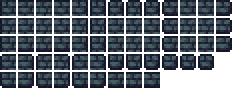
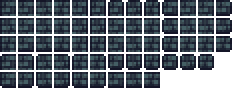
crystal depth tiles/items resprite + code enchancements; add new items tiles/items; hielitium ore tile resprite;

diff --git a/Content/Tiles/Furniture/DeepWoodFurniture/HewnDeepWoodPlatform.cs b/Content/Tiles/Furniture/DeepWoodFurniture/HewnDeepWoodPlatform.cs
@@ -1,0 +1,43 @@
+using Microsoft.Xna.Framework;
+using Terraria;
+using Terraria.ID;
+using Terraria.ModLoader;
+using Terraria.ObjectData;
+using Waybound.Content.Dusts.DeepDusts;
+
+namespace Waybound.Content.Tiles.Furniture.DeepWoodFurniture
+{
+	public class HewnDeepWoodPlatform : ModTile
+	{
+		public override void SetStaticDefaults()
+		{
+			Main.tileLighted[Type] = true;
+			Main.tileFrameImportant[Type] = true;
+			Main.tileSolidTop[Type] = true;
+			Main.tileSolid[Type] = true;
+			Main.tileNoAttach[Type] = true;
+			Main.tileTable[Type] = true;
+			Main.tileLavaDeath[Type] = true;
+			TileID.Sets.Platforms[Type] = true;
+			TileID.Sets.DisableSmartCursor[Type] = true;
+
+			AddToArray(ref TileID.Sets.RoomNeeds.CountsAsDoor);
+			AddMapEntry(new Color(96, 74, 74));
+
+			DustType = ModContent.DustType<DeepTreeDust>();
+			AdjTiles = new int[] { TileID.Platforms };
+
+			TileObjectData.newTile.CoordinateHeights = new[] { 16 };
+			TileObjectData.newTile.CoordinateWidth = 16;
+			TileObjectData.newTile.CoordinatePadding = 2;
+			TileObjectData.newTile.StyleHorizontal = true;
+			TileObjectData.newTile.StyleMultiplier = 27;
+			TileObjectData.newTile.StyleWrapLimit = 27;
+			TileObjectData.newTile.UsesCustomCanPlace = false;
+			TileObjectData.newTile.LavaDeath = true;
+			TileObjectData.addTile(Type);
+		}
+
+		public override void PostSetDefaults() => Main.tileNoSunLight[Type] = false;
+	}
+}

diff --git a/Content/Items/Placeable/Blocks/HewnDeepWoodItem.cs b/Content/Items/Placeable/Blocks/HewnDeepWoodItem.cs
@@ -1,14 +1,12 @@
 using Terraria;
 using Terraria.GameContent.Creative;
 using Terraria.ID;
-using Terraria.ModLoader;
+using Waybound.Content.Items.Placeable.Furniture.DeepWoodFurniture;
+using Waybound.Content.Tiles.Blocks;
 
-using Waybound.Content.Items.Placeable.Blocks;
-using Waybound.Content.Tiles.Furniture.DeepWoodFurniture;
-
-namespace Waybound.Content.Items.Placeable.Furniture.DeepWoodFurniture
+namespace Waybound.Content.Items.Placeable.Blocks
 {
-	public class DeepWoodPlatformI : ModItem
+	public class HewnDeepWoodItem : ModItem
 	{
 		public override void SetStaticDefaults()
 		{
@@ -24,19 +22,20 @@ namespace Waybound.Content.Items.Placeable.Furniture.DeepWoodFurniture
 			Item.autoReuse = true;
 			Item.maxStack = 999;
 			Item.consumable = true;
-			Item.createTile = TileType<DeepWoodPlatform>();
+			Item.createTile = TileType<HewnDeepWood>();
 			Item.width = 12;
 			Item.height = 12;
-			Item.value = Item.sellPrice(0, 0, 2, 50);
+			Item.value = Item.sellPrice(0, 0, 1, 50);
 			Item.rare = 0;
 		}
 		public override void AddRecipes()
 		{
-			CreateRecipe(2)
+			CreateRecipe(1)
 				.AddIngredient(ItemType<DeepTreeItem>(), 1)
+				.AddTile(TileID.Sawmill)
 				.Register();
 			CreateRecipe(1)
-				.AddIngredient(ItemType<DeepWoodPlatformI>(), 2)
+				.AddIngredient(ItemType<HewnDeepWoodPlatformI>(), 2)
 				.Register();
 		}
 	}

diff --git a/Content/Items/Placeable/Furniture/DeepWoodFurniture/HewnDeepWoodPlatformI.cs b/Content/Items/Placeable/Furniture/DeepWoodFurniture/HewnDeepWoodPlatformI.cs
@@ -8,7 +8,7 @@ using Waybound.Content.Tiles.Furniture.DeepWoodFurniture;
 
 namespace Waybound.Content.Items.Placeable.Furniture.DeepWoodFurniture
 {
-	public class DeepWoodPlatformI : ModItem
+	public class HewnDeepWoodPlatformI : ModItem
 	{
 		public override void SetStaticDefaults()
 		{
@@ -24,7 +24,7 @@ namespace Waybound.Content.Items.Placeable.Furniture.DeepWoodFurniture
 			Item.autoReuse = true;
 			Item.maxStack = 999;
 			Item.consumable = true;
-			Item.createTile = TileType<DeepWoodPlatform>();
+			Item.createTile = TileType<HewnDeepWoodPlatform>();
 			Item.width = 12;
 			Item.height = 12;
 			Item.value = Item.sellPrice(0, 0, 2, 50);
@@ -33,10 +33,7 @@ namespace Waybound.Content.Items.Placeable.Furniture.DeepWoodFurniture
 		public override void AddRecipes()
 		{
 			CreateRecipe(2)
-				.AddIngredient(ItemType<DeepTreeItem>(), 1)
-				.Register();
-			CreateRecipe(1)
-				.AddIngredient(ItemType<DeepWoodPlatformI>(), 2)
+				.AddIngredient(ItemType<HewnDeepWoodItem>(), 1)
 				.Register();
 		}
 	}

diff --git a/Content/Tiles/Blocks/HewnDeepWood.cs b/Content/Tiles/Blocks/HewnDeepWood.cs
@@ -6,18 +6,17 @@ using Waybound.Content.Dusts.DeepDusts;
 
 namespace Waybound.Content.Tiles.Blocks;
 
-public class DeepWood : ModTile
+public class HewnDeepWood : ModTile
 {
 	public override void SetStaticDefaults()
 	{
+		TileID.Sets.ChecksForMerge[Type] = false;
 		TileID.Sets.NeedsGrassFraming[Type] = true;
 		TileID.Sets.NeedsGrassFramingDirt[Type] = TileID.DirtiestBlock; // 0.000000000000000000001% merge
 		Main.tileMergeDirt[Type] = false;
 		Main.tileSolid[Type] = true;
 		Main.tileBlockLight[Type] = false;
-
 		AddMapEntry(new Color(96, 74, 74));
-		// ItemDrop/* tModPorter Note: Removed. Tiles and walls will drop the item which places them automatically. Use RegisterItemDrop to alter the automatic drop if necessary. */ = ModContent.ItemType<deepTreeItem>();
 		HitSound = SoundID.Dig;
 
 		MineResist = 2f;
